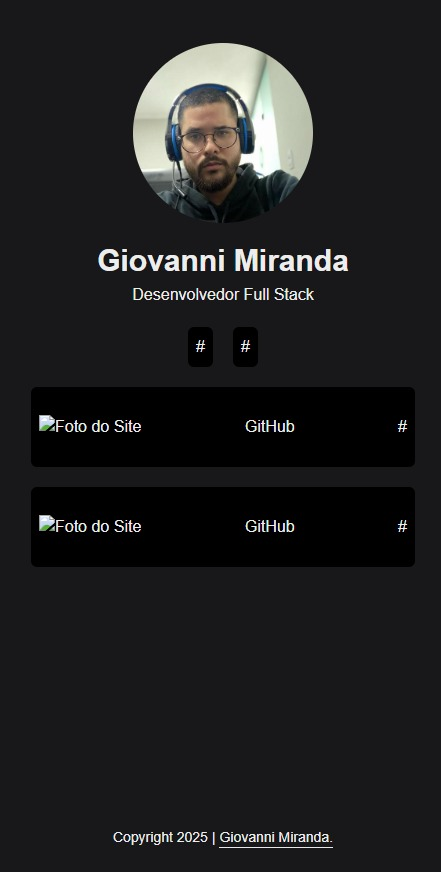
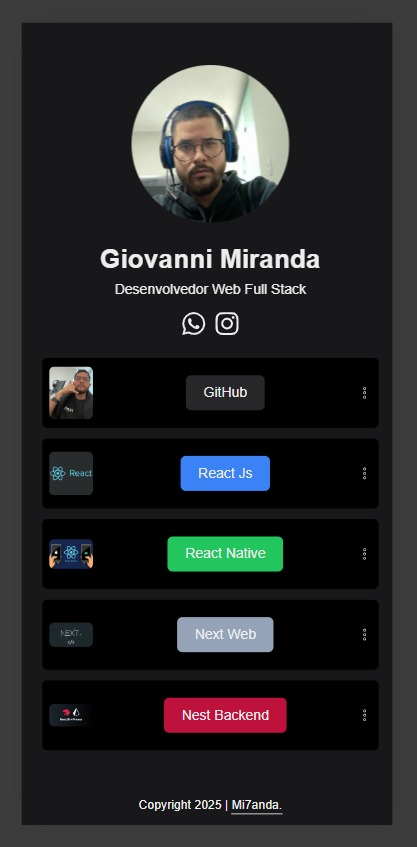
update

diff --git a/src/app/page.tsx b/src/app/page.tsx
@@ -9,7 +9,7 @@ export default function Home() {
 
       <div className="w-full flex flex-col items-center gap-6 pt-12 relative">
 
-        <img data-aos="fade-down" data-aos-delay="500" className="rounded-full hover:scale-105 duration-300" width={180} src="https://avatars.githubusercontent.com/u/134082250?v=4" alt="Foto de Perfil do Giovanni" />
+        <img data-aos="fade-down" data-aos-delay="500" className="rounded-lg hover:scale-105 duration-300" width={150} height={150} src="/perfil.png" alt="Foto de Perfil do Giovanni" />
 
         <div data-aos="fade-up" data-aos-delay="500" className="flex flex-col items-center gap-3" >
           <div className="flex flex-col items-center gap-1">
@@ -35,7 +35,7 @@ export default function Home() {
         <div className="w-full flex flex-col items-center gap-3">
 
           <div data-aos="fade-right" data-aos-delay="500" className="w-96 lg:w-1/4 h-20 bg-black flex justify-between items-center rounded-md cursor-pointer hover:scale-105 duration-300 p-2">
-            <img width={50} height={20} className="rounded-md" src="/perfil.png" alt="Foto do Site" />
+            <img width={50} height={20} className="rounded-md" src="https://avatars.githubusercontent.com/u/134082250?v=4" alt="Foto do Site" />
             <p className=" rounded-md p-2 px-5 bg-zinc-800">GitHub</p>
             <CiMenuKebab />
           </div>
